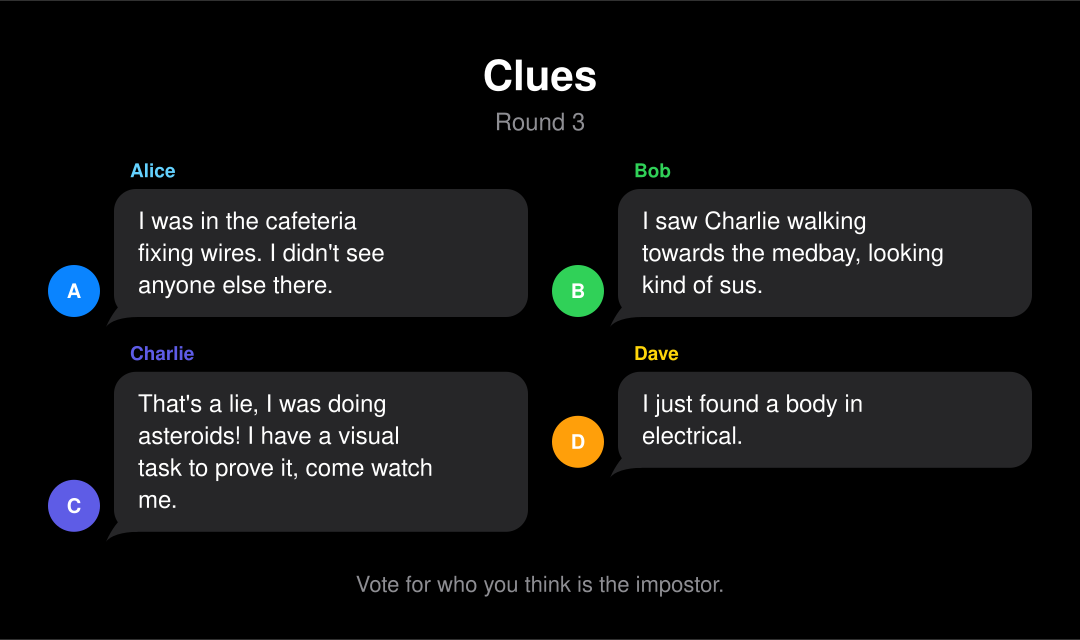
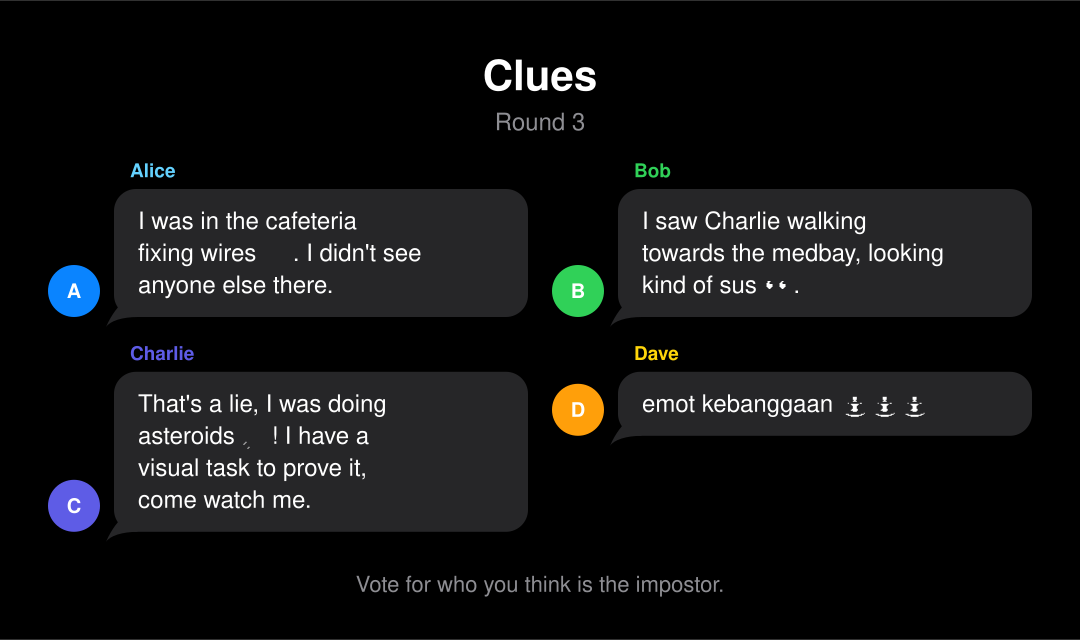
Update README and game logic for killer mode power cards; enhance clue messages with emojis

diff --git a/src/utils/clueImage.js b/src/utils/clueImage.js
@@ -8,6 +8,8 @@ const footerHeight = 60;
 const maxImageHeight = 1900;
 const compactPlayerLimit = 12;
 
+const fontFamily = "system-ui, -apple-system, BlinkMacSystemFont, 'Segoe UI', Roboto, Helvetica, Arial, sans-serif, 'Apple Color Emoji', 'Segoe UI Emoji', 'Segoe UI Symbol', 'Noto Color Emoji'";
+
 const regularLayout = {
   columns: 1,
   cardGap: 36,
@@ -93,10 +95,10 @@ async function renderCluePage({ game, cards, pageNumber, totalPages, layout }) {
   const svg = `
 <svg width="${width}" height="${height}" viewBox="0 0 ${width} ${height}" xmlns="http://www.w3.org/2000/svg">
   <rect width="${width}" height="${height}" fill="#000000"/>
-  <text x="${width / 2}" y="${margin + 42}" text-anchor="middle" font-family="-apple-system, BlinkMacSystemFont, Helvetica, Arial, sans-serif" font-size="42" font-weight="700" fill="#ffffff">Clues</text>
-  <text x="${width / 2}" y="${margin + 82}" text-anchor="middle" font-family="-apple-system, BlinkMacSystemFont, Helvetica, Arial, sans-serif" font-size="24" font-weight="400" fill="#8E8E93">Round ${escapeXml(String(game.roundNumber || 1))}${totalPages > 1 ? ` • Page ${pageNumber}/${totalPages}` : ""}</text>
+  <text x="${width / 2}" y="${margin + 42}" text-anchor="middle" font-family="${fontFamily}" font-size="42" font-weight="700" fill="#ffffff">Clues</text>
+  <text x="${width / 2}" y="${margin + 82}" text-anchor="middle" font-family="${fontFamily}" font-size="24" font-weight="400" fill="#8E8E93">Round ${escapeXml(String(game.roundNumber || 1))}${totalPages > 1 ? ` • Page ${pageNumber}/${totalPages}` : ""}</text>
   ${cardSvg}
-  <text x="${width / 2}" y="${height - margin}" text-anchor="middle" font-family="-apple-system, BlinkMacSystemFont, Helvetica, Arial, sans-serif" font-size="22" font-weight="500" fill="#8E8E93">Vote for who you think is the impostor.</text>
+  <text x="${width / 2}" y="${height - margin}" text-anchor="middle" font-family="${fontFamily}" font-size="22" font-weight="500" fill="#8E8E93">Vote for who you think is the impostor.</text>
 </svg>`;
 
   const overlays = [];
@@ -165,13 +167,13 @@ function renderCard(card, x, y, cardWidth, cardHeight, layout) {
   return `
   <g>
     <circle cx="${avatarX + layout.avatarSize / 2}" cy="${avatarY + layout.avatarSize / 2}" r="${layout.avatarSize / 2}" fill="${avatarColor}"/>
-    ${card.avatar ? "" : `<text x="${avatarX + layout.avatarSize / 2}" y="${avatarY + layout.avatarSize / 2 + layout.avatarTextSize * 0.35}" text-anchor="middle" font-family="-apple-system, BlinkMacSystemFont, Helvetica, Arial, sans-serif" font-size="${layout.avatarTextSize}" font-weight="700" fill="#ffffff">${escapeXml(initials(playerDisplayName(card.player)))}</text>`}
-    <text x="${bubbleX + 16}" y="${nameY}" font-family="-apple-system, BlinkMacSystemFont, Helvetica, Arial, sans-serif" font-size="${layout.nameFontSize}" font-weight="600" fill="${nameColor}">${nameText}</text>
+    ${card.avatar ? "" : `<text x="${avatarX + layout.avatarSize / 2}" y="${avatarY + layout.avatarSize / 2 + layout.avatarTextSize * 0.35}" text-anchor="middle" font-family="${fontFamily}" font-size="${layout.avatarTextSize}" font-weight="700" fill="#ffffff">${escapeXml(initials(playerDisplayName(card.player)))}</text>`}
+    <text x="${bubbleX + 16}" y="${nameY}" font-family="${fontFamily}" font-size="${layout.nameFontSize}" font-weight="600" fill="${nameColor}">${nameText}</text>
     
     <path d="${tailPath}" fill="#262628"/>
     <rect x="${bubbleX}" y="${bubbleY}" width="${bubbleWidth}" height="${card.bubbleHeight}" rx="${layout.cardRadius}" fill="#262628"/>
     
-    <text x="${bubbleX + layout.cardPaddingX}" y="${clueStartY}" font-family="-apple-system, BlinkMacSystemFont, Helvetica, Arial, sans-serif" font-size="${layout.clueFontSize}" font-weight="400" fill="#ffffff">${clueText}</text>
+    <text x="${bubbleX + layout.cardPaddingX}" y="${clueStartY}" font-family="${fontFamily}" font-size="${layout.clueFontSize}" font-weight="400" fill="#ffffff">${clueText}</text>
   </g>`;
 }
 

diff --git a/src/game/gameManager.js b/src/game/gameManager.js
@@ -15,6 +15,7 @@ import { checkDmEnabled, lobbyKeyboard, mentionPlayer, playerName, safeEditMessa
 
 const CREW_POWER_CARDS = ["detective", "silencer", "double_vote", "shield"];
 const IMPOSTOR_POWER_CARDS = ["saboteur", "double_vote", "shield"];
+const KILLER_POWER_CARD_COUNT = 2;
 
 export async function createNewGame(bot, msg, options = {}) {
   const existing = await getActiveGame(msg.chat.id);
@@ -172,11 +173,13 @@ export async function startGame(bot, game, isAutoStart = false) {
   const assignment = await pickWordAssignment(game.telegramGroupId);
   const impostorIds = chooseImpostors(players);
 
+  const powerUserIds = game.gameMode === "killer" ? choosePowerCardPlayers(players, KILLER_POWER_CARD_COUNT) : new Set();
+
   for (const player of players) {
     const isImpostor = impostorIds.includes(player.userId);
     player.role = isImpostor ? "impostor" : "normal";
     player.secretWord = isImpostor ? assignment.impostorWord : assignment.mainWord;
-    player.powerCard = game.gameMode === "killer" ? assignPowerCard(isImpostor) : "";
+    player.powerCard = powerUserIds.has(player.userId) ? assignPowerCard(isImpostor) : "";
     player.powerUsed = false;
     player.powerActiveRound = null;
     player.powerTargetUserId = null;
@@ -694,6 +697,11 @@ function applyClueSwaps(game, clueByUser, roundNumber) {
 function assignPowerCard(isImpostor) {
   const pool = isImpostor ? IMPOSTOR_POWER_CARDS : CREW_POWER_CARDS;
   return pool[Math.floor(Math.random() * pool.length)];
+}
+
+function choosePowerCardPlayers(players, cardCount) {
+  const shuffled = [...players].sort(() => Math.random() - 0.5);
+  return new Set(shuffled.slice(0, Math.min(cardCount, shuffled.length)).map((player) => player.userId));
 }
 
 export function powerLabel(powerCard) {

diff --git a/test-image.js b/test-image.js
@@ -11,10 +11,10 @@ async function main() {
   ];
   
   const clueByUser = new Map([
-    [1, "I was in the cafeteria fixing wires. I didn't see anyone else there."],
-    [2, "I saw Charlie walking towards the medbay, looking kind of sus."],
-    [3, "That's a lie, I was doing asteroids! I have a visual task to prove it, come watch me."],
-    [4, "I just found a body in electrical."]
+    [1, "I was in the cafeteria fixing wires ⚡. I didn't see anyone else there."],
+    [2, "I saw Charlie walking towards the medbay, looking kind of sus 👀."],
+    [3, "That's a lie, I was doing asteroids ☄️! I have a visual task to prove it, come watch me."],
+    [4, "emot kebanggaan ⛲⛲⛲"]
   ]);
 
   const buffer = await renderCluesImage({ game, players, clueByUser });

diff --git a/README.md b/README.md
@@ -94,7 +94,7 @@ Supported settings:
 3. The creator presses `Start Game` or runs `/startgame`.
 4. The bot checks that every player has opened a private chat with it.
 5. Each player receives a secret word by DM.
-   - In killer mode, each player also receives one power card: Detective, Silencer, Double Vote, Shield, or Saboteur.
+   - In killer mode, two random players also receive one power card each: Detective, Silencer, Double Vote, Shield, or Saboteur.
 6. Players run `/describe clue text` in private chat with the bot.
 7. The bot renders the clues as message-style image pages using player profile photos when available, then starts voting after all clues arrive or after the clue timer expires.
 8. Players vote with inline buttons.
@@ -103,7 +103,7 @@ Supported settings:
 
 ## Killer Mode Power Cards
 
-Power cards are only assigned in games created with `/killer`. Each player receives one random power card and can use it once per game with `/power` in DM.
+Power cards are only assigned in games created with `/killer`. Two random players receive one random power card each and can use it once per game with `/power` in DM.
 
 - `Detective` - During the clue phase, privately checks whether one player is an impostor.
 - `Silencer` - During the clue phase, blocks one player from submitting a clue this round.